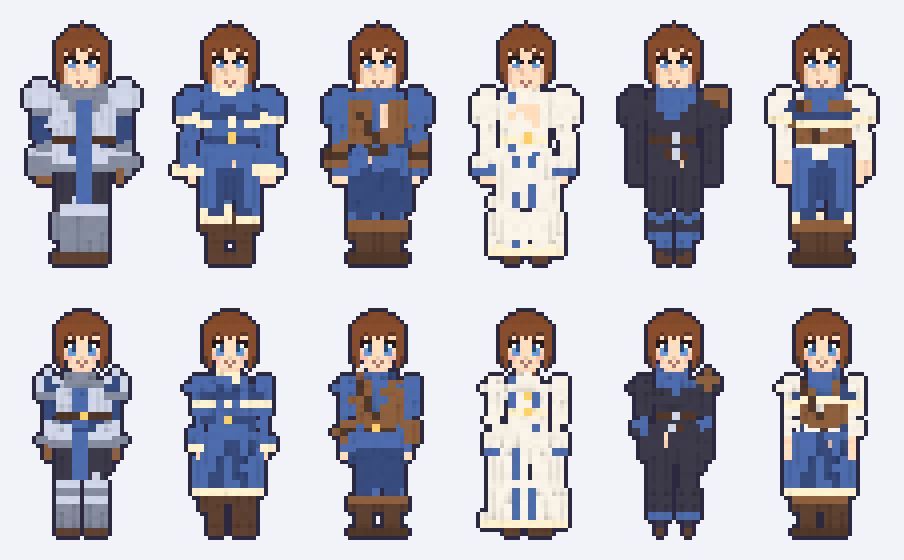
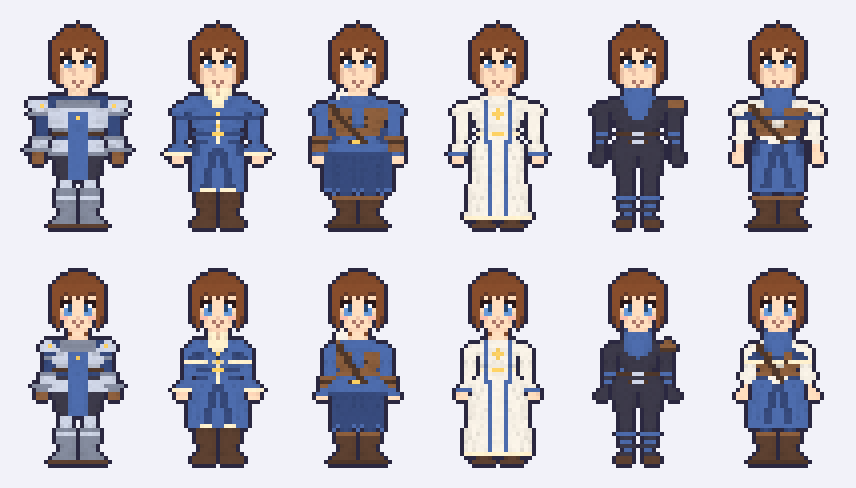
Make the 3.25-head body the game's default
Phupha chose a figure 3.25 heads tall. sprite.mjs now draws every
portrait, face icon and full figure on vn.mjs GAME_BODY unless a style
says otherwise. voxel-verify and match.png pass Voxel Realm's own body
(VOXEL_REALM) explicitly, so the check against the baked sprites is
unchanged: 38 sprites, 0 shape differences, and 644 Voxel Realm full
bodies byte-identical.

The previews now show the game body, body_compare.png sets it beside
Voxel Realm's at the same zoom, and the candidate sheets for the other
ratios are removed. voxel-render gains --voxel-realm; --vn <ratio> stays.

Claude-Session: https://claude.ai/code/session_0183TD4CMpFTACL4Ve5yfrxC

diff --git a/art/README.md b/art/README.md
@@ -2,12 +2,25 @@
 
 ตัวละครของเกมสร้างด้วยวิธีเดียวกับ Voxel Realm (โปรเจกต์ก่อนหน้าของ Phupha) ทุกอย่าง โค้ดตัวละครของ Voxel Realm ถูกแปลงจาก GDScript มาเป็น JavaScript ล้วนใน `voxel/` ไม่ต้องใช้ Godot และไม่ต้องติดตั้งอะไรเพิ่ม
 
-- **ร่าง** ปั้นจากรูปทรง (SDF) ตามเพศ เผ่า และสัดส่วน แล้วตัดเป็นชิ้นตามข้อต่อ voxel ของตัวขนาด 1/16 ม.
+- **ร่าง** ปั้นจากรูปทรง (SDF) ตามเพศ เผ่า และสัดส่วน แล้วตัดเป็นชิ้นตามข้อต่อ เกมใช้ร่างสูง 3.25 หัวใน `voxel/vn.mjs` (หัวข้อถัดไป) ส่วนร่างเดิมของ Voxel Realm เก็บไว้ใช้ตรวจเทียบ
 - **ชุด** เป็นชิ้น voxel ที่ทาลงบนร่างทีละชิ้นตามช่อง (ขา เท้า ตัว เสื้อนอก เอว ไหล่ แขน มือ หลัง คอ) เปลี่ยนชิ้นไหนก็ทาใหม่แค่ชิ้นนั้น ไม่มีการวาดตัวละครทั้งตัวใหม่
 - **หัว** voxel ขนาด 1/32 ม. หน้า 17 อารมณ์ ผม 21 ทรง เขา หาง และของบนหัว
-- **ภาพ** ถ่ายหน้าตรงแบบ orthographic ด้วยแสงและ shader เดียวกับห้องถ่ายภาพของ Voxel Realm 1 พิกเซลต่อ voxel ของหัว (voxel ของตัวเป็น 2×2 พิกเซล) แล้วตีขอบเข้ม 1 พิกเซล
+- **ภาพ** ถ่ายหน้าตรงแบบ orthographic ด้วยแสงและ shader เดียวกับห้องถ่ายภาพของ Voxel Realm 1 พิกเซลต่อ voxel แล้วตีขอบเข้ม 1 พิกเซล
 
-ภาพเต็มตัวใช้ canvas 64×96 ตามข้อ A2 เท้าอยู่แถวเดียวกันทุกตัว หน้าอยู่พิกเซลเดียวกับภาพ portrait
+## ร่างของเกม: สูง 3.25 หัว
+
+Phupha ขอแบบ Voxel Realm แต่หัวใหญ่ขึ้นและอวัยวะถูกต้อง แล้วเลือกความสูง 3.25 หัวเมื่อ 7 พ.ย. 2026 ร่างนี้อยู่ใน `voxel/vn.mjs` ปั้น แต่งตัว และวาดภาพด้วยโค้ดชุดเดียวกับ Voxel Realm ต่างกันแค่สัดส่วนกับรูปทรง และเป็นค่าเริ่มต้นของ sprite ทุกแบบ
+
+- หัว หน้า ผม และ 17 อารมณ์ เหมือน Voxel Realm ทุกพิกเซล ร่างเตี้ยลงจนทั้งตัวสูง 3.25 หัว (ของเดิมราว 3.75 หัว) ผู้ชายสูง 51 พิกเซล ผู้หญิง 48 พิกเซล ไม่นับขอบ
+- ร่างละเอียด 1/32 ม. เท่ากับหัว ไม่ย่อเป็น voxel 2×2 จึงมีข้อมือ มือ ข้อเท้า เท้า และซ้ายขวาเท่ากันทุกพิกเซล
+- คอโผล่ บ่าลาดลงหาหัวไหล่ ไม่มีไหล่โป่งเหมือนใส่บ่าเสริม แขนห่างลำตัว 1 พิกเซล มือกว้างกว่าข้อมือ เท้ากว้างกว่าข้อเท้าและปลายเท้าหันออกเล็กน้อย
+- ชุดทุกชิ้นใส่ได้เลย ระยะในโค้ดชุดย่อตามร่าง ส่วนบนร่าง Voxel Realm ค่าย่อเป็น 1 ทั้งหมด ภาพจึงเหมือนเดิมทุกพิกเซล
+
+ฝั่งซ้ายคือร่าง Voxel Realm ฝั่งขวาคือร่างของเกม ขยายเท่ากันและยืนบนพื้นเดียวกัน หัวเท่าเดิม ตัวเตี้ยลงและรูปทรงแก้ใหม่
+
+![ร่าง Voxel Realm เทียบกับร่างของเกม](preview/voxel/body_compare.png)
+
+ภาพเต็มตัวใช้ canvas 64×96 ตามข้อ A2 เท้าอยู่แถวเดียวกันทุกตัว หน้าอยู่พิกเซลเดียวกับภาพ portrait ตัวที่สูงที่สุดตอนนี้ (เอลฟ์ชายใส่หมวกขนนก) สูง 60 พิกเซลรวมขอบ เหนือหัวจึงยังว่างอีกมาก เก็บไว้สำหรับหมวก เขา หรือท่ายกแขน ขนาด canvas จะตกลงกับ Phupha อีกครั้งตอนต่อเข้าเกม
 
 ![ตัวเปล่าชายหญิง](preview/voxel/bare.png)
 
@@ -23,26 +36,11 @@
 
 ![17 อารมณ์](preview/voxel/expressions_f.png)
 
-## ร่างแบบ VisualNovel: หัวใหญ่ขึ้น อวัยวะแก้ใหม่
-
-Phupha ขอแบบ Voxel Realm แต่หัวใหญ่ขึ้นและอวัยวะถูกต้อง `voxel/vn.mjs` จึงเป็นร่างอีกแบบที่ใช้โค้ดปั้น แต่งตัว และวาดภาพชุดเดียวกัน ต่างแค่สัดส่วนกับรูปทรง
-
-- หัว หน้า ผม และ 17 อารมณ์ เหมือน Voxel Realm ทุกพิกเซล ร่างเตี้ยลงจนทั้งตัวสูง 3.25, 3 หรือ 2.5 หัว (ของเดิมราว 3.75 หัว)
-- ร่างละเอียด 1/32 ม. เท่ากับหัว ไม่ย่อเป็น voxel 2×2 จึงมีข้อมือ มือ ข้อเท้า เท้า และซ้ายขวาเท่ากันทุกพิกเซล
-- คอโผล่ บ่าลาดลงหาหัวไหล่ ไม่มีไหล่โป่งเหมือนใส่บ่าเสริม แขนห่างลำตัว 1 พิกเซล มือกว้างกว่าข้อมือ เท้ากว้างกว่าข้อเท้าและปลายเท้าหันออกเล็กน้อย
-- ชุดทุกชิ้นใส่ได้เลย ระยะในโค้ดชุดย่อตามร่าง ส่วนบนร่าง Voxel Realm ค่าย่อเป็น 1 ทั้งหมด ภาพจึงเหมือนเดิมทุกพิกเซล
-
-กลุ่มซ้ายสุดคือร่าง Voxel Realm แล้วตามด้วย 3.25, 3 และ 2.5 หัว แต่ละกลุ่มขยายให้สูงพอ ๆ กัน แบบที่จะเห็นบนจอเกม
-
-![สัดส่วนหัว](preview/voxel/vn_proportions.png)
-
-ชุดเริ่มต้นทั้ง 6 class บนร่าง 3 หัว (มีภาพของ 3.25 และ 2.5 หัวใน `preview/voxel/` ด้วย)
-
-![6 class บนร่าง 3 หัว](preview/voxel/vn_classes_3.png)
-
 ## ตรงกับ Voxel Realm แค่ไหน
 
-`tools/voxel-verify.mjs` วาด sprite ชุดเดียวกับที่ Voxel Realm bake ไว้ใน `client/assets/ui/creator` แล้วเทียบทีละพิกเซล: portrait เผ่ามนุษย์ชายหญิง หน้า 17 อารมณ์ และ portrait ของ origin 19 แบบที่ใช้ชุดในตัว รวม 38 ภาพ 25,568 พิกเซล รูปทรงตรงทุกพิกเซล สีตรงเป๊ะ 95.9% ที่เหลือต่างกัน 1 ถึง 2 ระดับสี เพราะ GPU ปัดเศษแสงบิตสุดท้ายต่างกัน มองด้วยตาไม่เห็น
+`tools/voxel-verify.mjs` วาด sprite ชุดเดียวกับที่ Voxel Realm bake ไว้ใน `client/assets/ui/creator` บนร่างเดิมของ Voxel Realm แล้วเทียบทีละพิกเซล: portrait เผ่ามนุษย์ชายหญิง หน้า 17 อารมณ์ และ portrait ของ origin 19 แบบที่ใช้ชุดในตัว รวม 38 ภาพ 25,568 พิกเซล รูปทรงตรงทุกพิกเซล สีตรงเป๊ะ 95.9% ที่เหลือต่างกัน 1 ถึง 2 ระดับสี เพราะ GPU ปัดเศษแสงบิตสุดท้ายต่างกัน มองด้วยตาไม่เห็น
+
+face icon มีแต่หัว จึงออกมาเหมือนกันทุกพิกเซลไม่ว่าใช้ร่างไหน (ตรวจครบ 11 เผ่า ชายหญิง 17 อารมณ์)
 
 แถวบนคือ sprite ของ Voxel Realm แถวล่างคือที่วาดใหม่
 
@@ -51,22 +49,23 @@ Phupha ขอแบบ Voxel Realm แต่หัวใหญ่ขึ้นแ
 ## ใช้งาน
 
 ```sh
-# sprite ตัวเดียว: full (เต็มตัว 64×96) portrait (32×32) หรือ face (20×20)
+# sprite ตัวเดียวบนร่างของเกม: full (เต็มตัว 64×96) portrait (32×32) หรือ face (20×20)
 node art/tools/voxel-render.mjs full '{"race":"human","body":1,"hs":4,"cls":"warrior"}' --expr smile --scale 4 --out warrior.png
+
+# ร่างความสูงอื่น (--vn ตามด้วยจำนวนหัว) หรือร่างเดิมของ Voxel Realm
+node art/tools/voxel-render.mjs full '{"race":"human","body":1,"hs":4,"cls":"cleric"}' --vn 3 --out cleric.png
+node art/tools/voxel-render.mjs portrait '{"race":"human","body":1,"hs":4}' --voxel-realm --out portrait.png
 
 # ภาพทั้งหมดใน preview/voxel/ (ใส่โฟลเดอร์ของ Voxel Realm ด้วยถ้าจะสร้าง match.png)
 node art/tools/voxel-preview.mjs [voxel/client/assets/ui/creator]
 
 # เทียบกับ sprite ของ Voxel Realm หลังแก้โค้ดใน voxel/ ทุกครั้ง
 node art/tools/voxel-verify.mjs <voxel/client/assets/ui/creator>
-
-# ร่างแบบ VisualNovel: --vn ตามด้วยความสูงเป็นจำนวนหัว
-node art/tools/voxel-render.mjs full '{"race":"human","body":1,"hs":4,"cls":"cleric"}' --vn 3 --out cleric.png
 ```
 
-ในโค้ดใช้ `fullBody(look, { style: vnStyle(3) })` ส่วน `portrait` และ `faceIcon` รับ `style` แบบเดียวกัน
+ในโค้ด `fullBody(look)` `portrait(look)` และ `faceIcon(look, expr)` ใช้ร่างของเกมอยู่แล้ว ถ้าต้องการร่างอื่นให้ส่ง `style` เช่น `fullBody(look, { style: vnStyle(3) })` หรือ `{ style: VOXEL_REALM }`
 
-ค่าของตัวละครใช้ชื่อเดียวกับ `CharAppearance.to_dict()` ของ Voxel Realm: `race` `body` (0 ชาย 1 หญิง) `skin` `hs` (ทรงผม) `hc` (สีผม) `eye` `om` `ot` (สีชุดหลักและรอง) `cls` `acc` (ของบนหัว) `outfit` ส่วน `outfit` ใช้เปลี่ยนชิ้นตามช่อง เช่น `{"body": "coat"}` ใส่เสื้อโค้ตแทนชิ้นเดิม `{"over": ""}` ถอดเสื้อนอก `{"bare": true}` เหลือแค่ชุดชั้นใน ใช้เวลาวาดราว 12 ms ต่อตัว จึงวาดสดในเกมได้
+ค่าของตัวละครใช้ชื่อเดียวกับ `CharAppearance.to_dict()` ของ Voxel Realm: `race` `body` (0 ชาย 1 หญิง) `skin` `hs` (ทรงผม) `hc` (สีผม) `eye` `om` `ot` (สีชุดหลักและรอง) `cls` `acc` (ของบนหัว) `outfit` ส่วน `outfit` ใช้เปลี่ยนชิ้นตามช่อง เช่น `{"body": "coat"}` ใส่เสื้อโค้ตแทนชิ้นเดิม `{"over": ""}` ถอดเสื้อนอก `{"bare": true}` เหลือแค่ชุดชั้นใน ใช้เวลาวาดราว 9 ms ต่อตัว จึงวาดสดในเกมได้
 
 ## ไฟล์ใน `voxel/`
 
@@ -82,7 +81,7 @@ node art/tools/voxel-render.mjs full '{"race":"human","body":1,"hs":4,"cls":"cle
 | `rig.mjs` | `char_rig.gd` | ประกอบชิ้นตามข้อต่อในท่ายืน |
 | `render.mjs` | `mesher.gd` `voxel.gdshader` `char_portrait.gd` | mesh ด้านหน้า แสง เงา AO ขอบเส้น crop |
 | `sprite.mjs` | `char_portrait.gd` `creator_icon_bake.gd` | portrait, face icon และภาพเต็มตัว |
-| `vn.mjs` | | ร่างแบบ VisualNovel: สัดส่วนหัวใหญ่ขึ้นและรูปทรงอวัยวะที่แก้ใหม่ |
+| `vn.mjs` | | ร่างของเกม (3.25 หัว): สัดส่วนหัวใหญ่ขึ้นและรูปทรงอวัยวะที่แก้ใหม่ |
 | `sheet.mjs` `png.mjs` | | เรียงภาพ อ่านเขียน PNG |
 
 ## ยังไม่ได้แปลง
